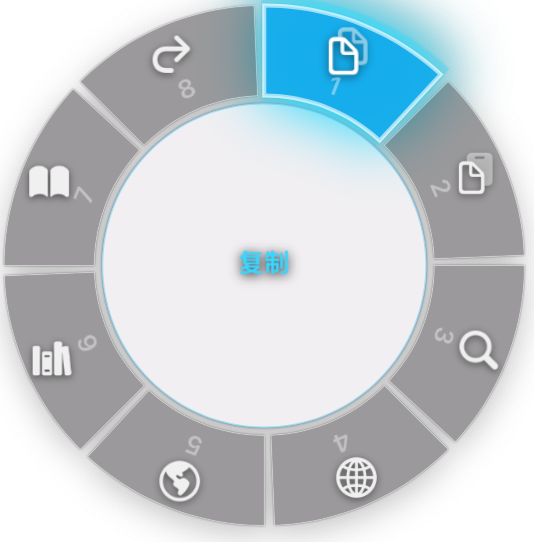
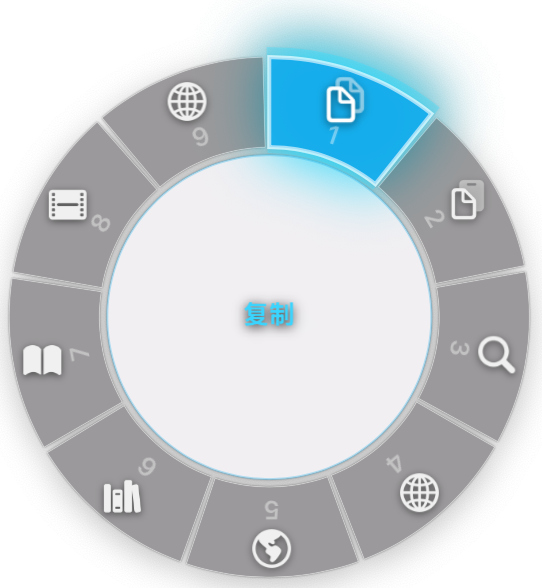
chore: Bump version to v0.0.6 for edge clamping cursor warp fix

diff --git a/Sources/OpenFire/UI/RadialMenuWindow.swift b/Sources/OpenFire/UI/RadialMenuWindow.swift
@@ -136,8 +136,7 @@ final class RadialMenuWindow: NSPanel {
         // Calculate tracking center (mouse position relative to the full window)
         // convertPoint(fromScreen:) converts global coordinates to window base coordinates
         let localScreenPoint = cv.convert(self.convertPoint(fromScreen: currentScreenPoint), from: nil)
-        radialMenuView.trackingCenter = localScreenPoint
-        
+
         // Calculate visual center (clamped so the menu ring stays on screen)
         var vCenter = localScreenPoint
         let paddingHorizontal: CGFloat = 24
@@ -148,7 +147,22 @@ final class RadialMenuWindow: NSPanel {
         if vCenter.x + radius > cv.bounds.width - paddingHorizontal { vCenter.x = cv.bounds.width - paddingHorizontal - radius }
         if vCenter.y - radius < paddingBottom { vCenter.y = paddingBottom + radius }
         if vCenter.y + radius > cv.bounds.height - paddingTop { vCenter.y = cv.bounds.height - paddingTop - radius }
+
+        // Check if we needed to clamp
+        let didClamp = vCenter != localScreenPoint
         
+        if didClamp {
+            // If the menu was clamped to stay on screen, warp the physical mouse cursor
+            // to the new visual center. This ensures the cursor stays exactly in the 
+            // middle of the radial menu, preserving the 1:1 aiming feel.
+            let newGlobalPoint = self.convertPoint(toScreen: cv.convert(vCenter, to: nil))
+            // CGWarpMouseCursorPosition uses standard flipped top-left CG coordinates
+            let cgPoint = CGPoint(x: newGlobalPoint.x, y: screenFrame.minY + screenFrame.height - newGlobalPoint.y)
+            CGWarpMouseCursorPosition(cgPoint)
+        }
+        
+        // Both visual and tracking center are now the clamped position
+        radialMenuView.trackingCenter = vCenter
         radialMenuView.visualCenter = vCenter
         radialMenuView.frame = cv.bounds
         
